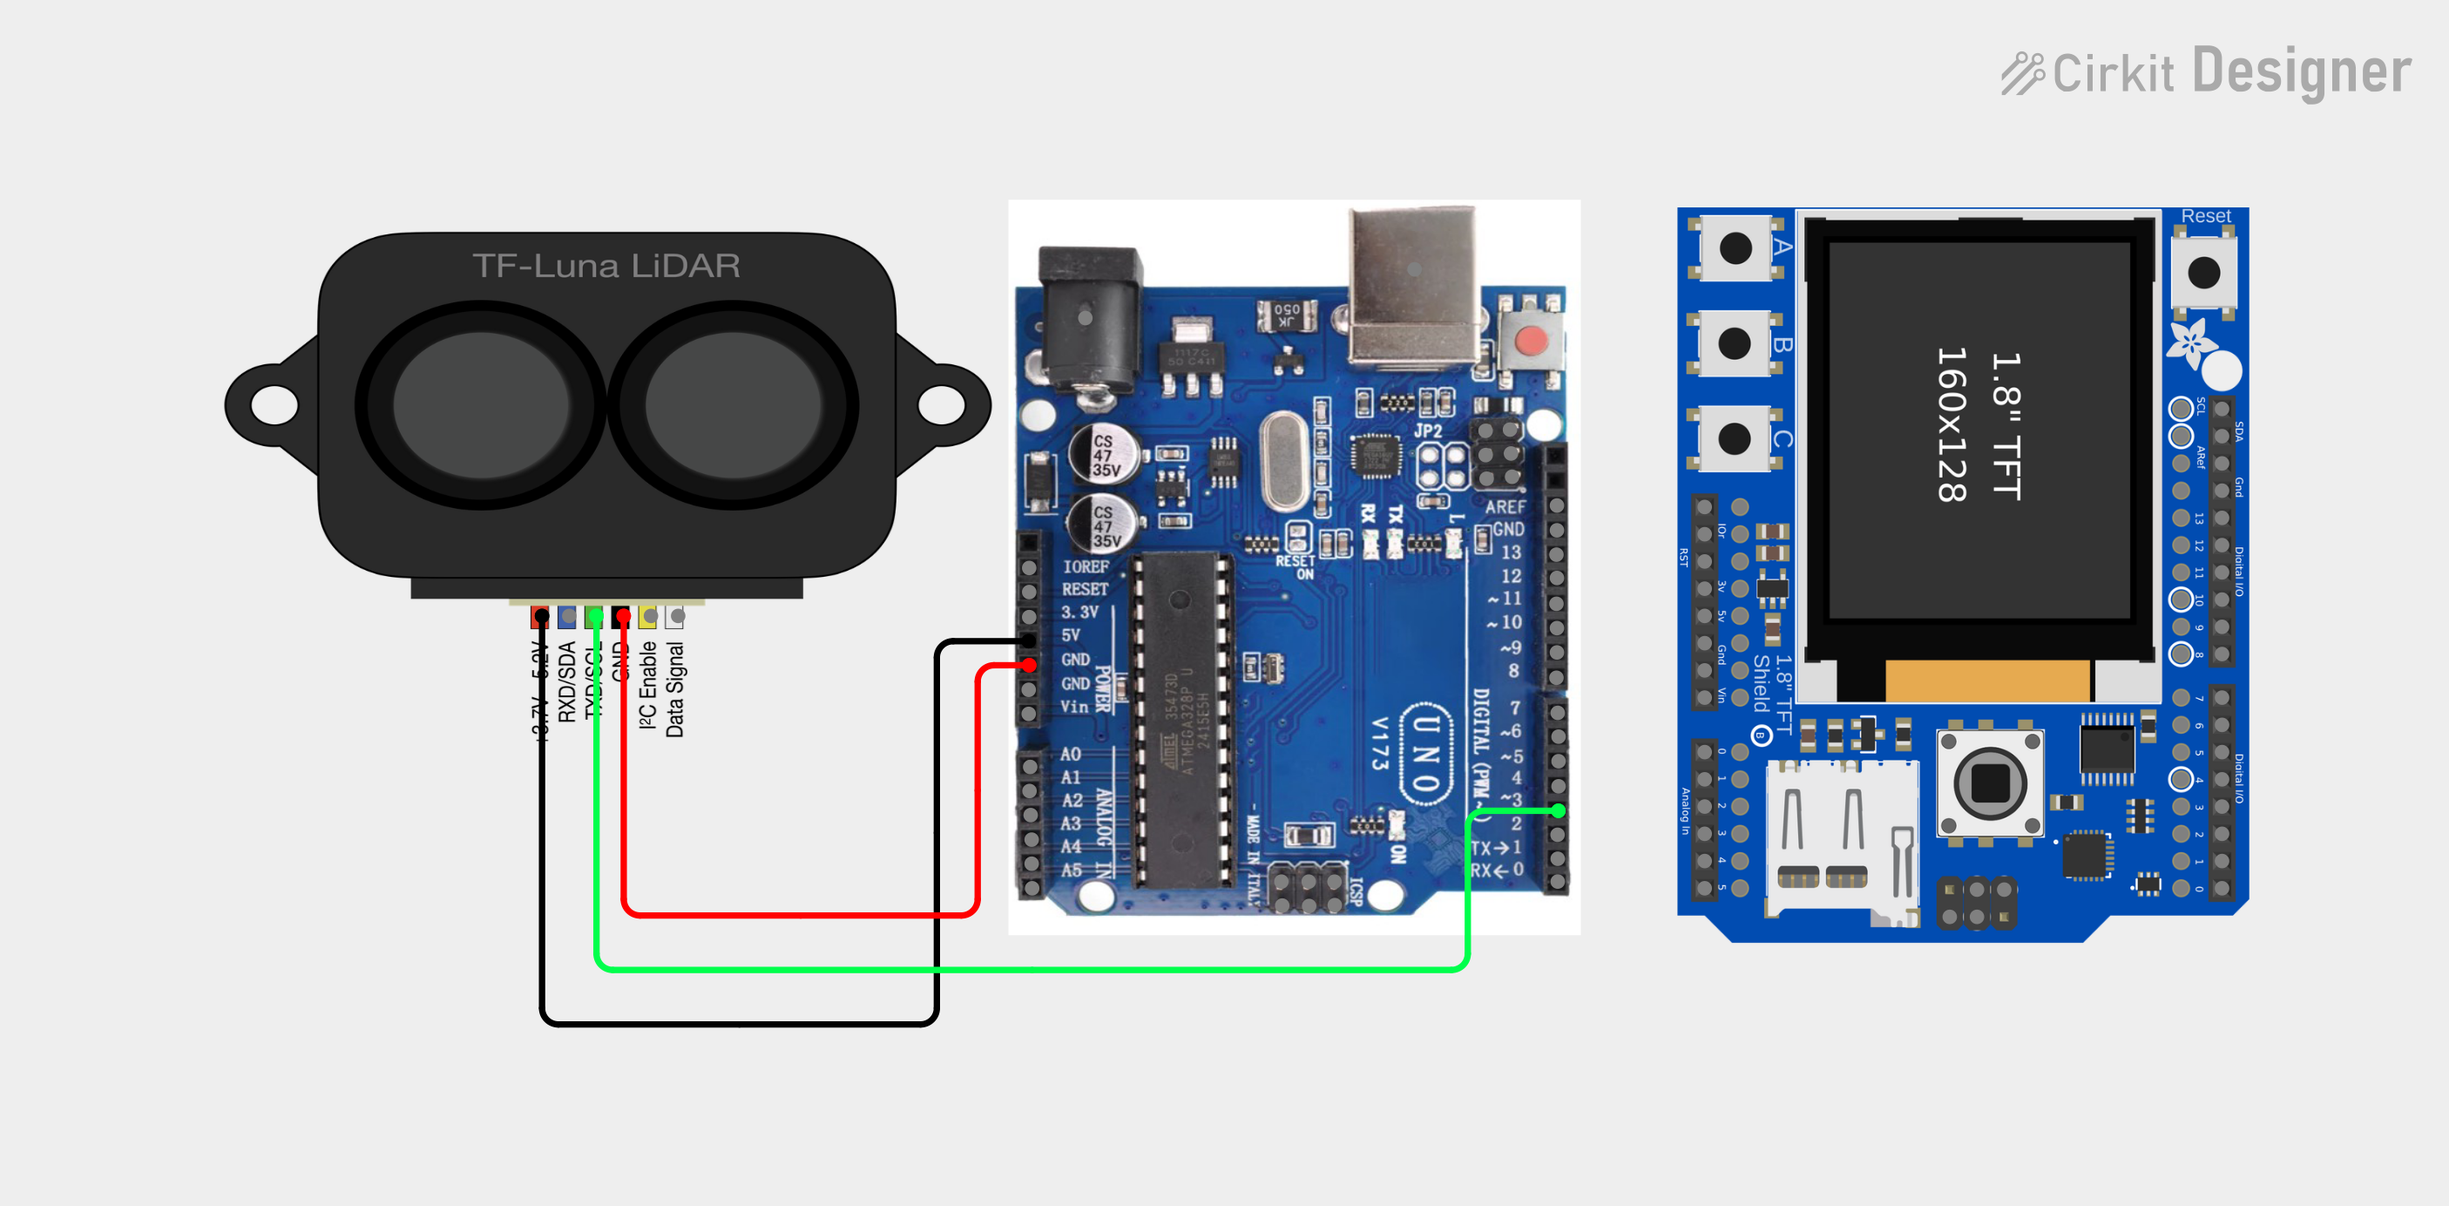
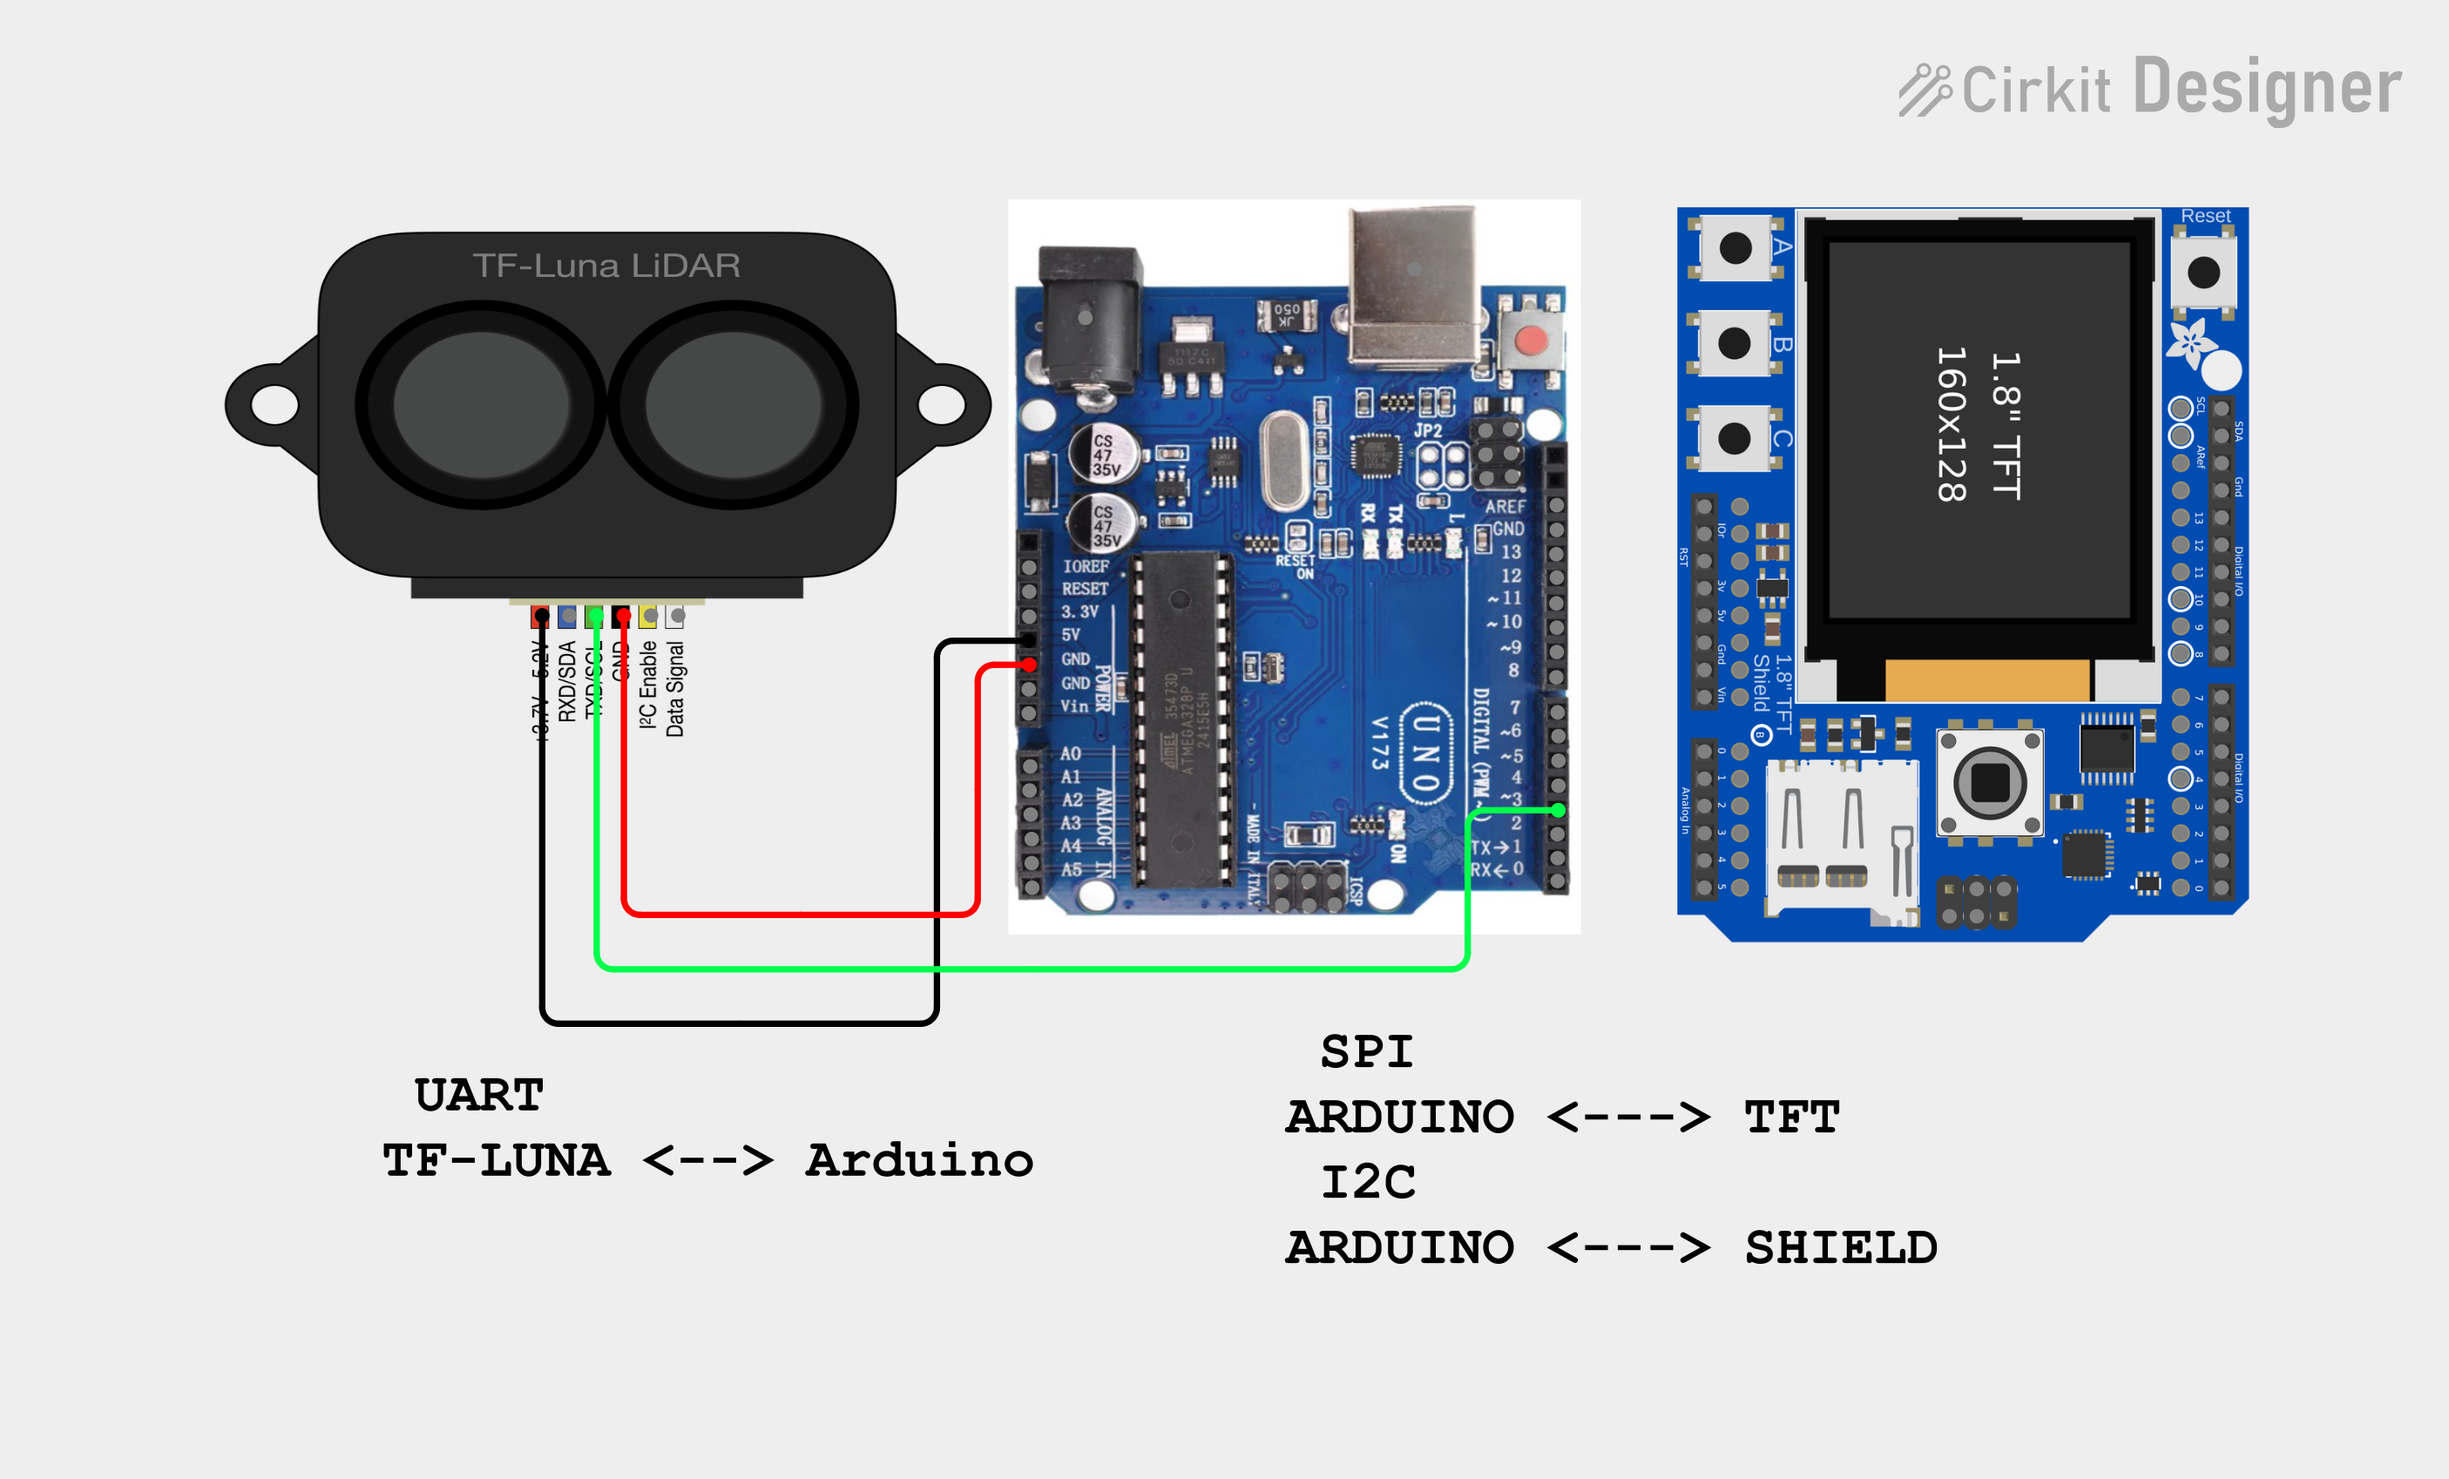
Mejoras visuales

diff --git a/src/components/Carousel.jsx b/src/components/Carousel.jsx
@@ -1,19 +1,31 @@
-import { useState } from 'react'
+import { useState, useMemo } from 'react'
 import './Carousel.css'
 
 export default function Carousel({ images = [] }) {
   const [current, setCurrent] = useState(0)
 
-  const prev = () => setCurrent((c) => (c - 1 + images.length) % images.length)
-  const next = () => setCurrent((c) => (c + 1) % images.length)
+  const slides = useMemo(
+    () => images.map((img) => (typeof img === 'string' ? { src: img, bg: undefined } : img)),
+    [images]
+  )
 
-  if (!images.length) return null
+  const prev = () => setCurrent((c) => (c - 1 + slides.length) % slides.length)
+  const next = () => setCurrent((c) => (c + 1) % slides.length)
+
+  if (!slides.length) return null
 
   return (
-    <div className="carousel">
+    <div className="carousel" aria-roledescription="carousel">
       <div className="carousel-track" style={{ transform: `translateX(-${current * 100}%)` }}>
-        {images.map((src, i) => (
-          <img key={i} src={src} alt={`Vista ${i + 1}`} className="carousel-img" />
+        {slides.map((slide, i) => (
+          <div
+            key={i}
+            className="carousel-slide"
+            style={{ background: slide.bg || 'transparent' }}
+            aria-hidden={i !== current}
+          >
+            <img src={slide.src} alt={`Vista ${i + 1}`} className="carousel-img" />
+          </div>
         ))}
       </div>
 
@@ -25,7 +37,7 @@ export default function Carousel({ images = [] }) {
       </button>
 
       <div className="carousel-dots">
-        {images.map((_, i) => (
+        {slides.map((_, i) => (
           <button
             key={i}
             type="button"

diff --git a/src/components/Carousel.css b/src/components/Carousel.css
@@ -17,13 +17,22 @@
         transition: transform 0.4s cubic-bezier(0.4, 0, 0.2, 1);
         }
 
-        .carousel-img {
+        .carousel-slide {
         min-width: 100%;
-        width: 100%;
+        display: flex;
+        align-items: center;
+        justify-content: center;
         height: 100%;
+        box-sizing: border-box;
+        padding: 12px;
+        }
+
+        .carousel-img {
+        max-width: 100%;
         max-height: 100%;
         object-fit: contain;
         display: block;
+        margin: 0 auto;
         }
 
     .carousel-btn {

diff --git a/src/data/products.js b/src/data/products.js
@@ -18,7 +18,11 @@ export const PRODUCTS = [
     description:
       'Lorem ipsum dolor sit amet, consectetur adipiscing elit. Sed do eiusmod tempor incididunt ut labore et dolore magna aliqua. Ut enim ad minim veniam, quis nostrud exercitation.',
     heroImage: lidar2d0,
-    images: [lidar2d0, lidar2d1, lidar2d2],
+    images: [
+      { src: lidar2d0, bg: '#f8f8f8' },
+      { src: lidar2d1, bg: '#eeeeee' },
+      { src: lidar2d2, bg: '#eeeeee' },
+    ],
   },
   {
     id: 'lidar-3d',

diff --git a/src/pages/Product.css b/src/pages/Product.css
@@ -54,7 +54,7 @@
 }
 
 .product-description {
-  color: rgba(255,255,255,0.6);
+  color: rgb(0, 0, 0);
   line-height: 1.7;
   margin: 0;
   font-size: 1rem;
@@ -79,6 +79,9 @@
   cursor: pointer;
   transition: background 0.2s, transform 0.1s;
   align-self: flex-start;
+  width: 100%;   
+  display: block;
+  align-self: stretch;
 }
 
 .add-to-cart-btn:hover {
